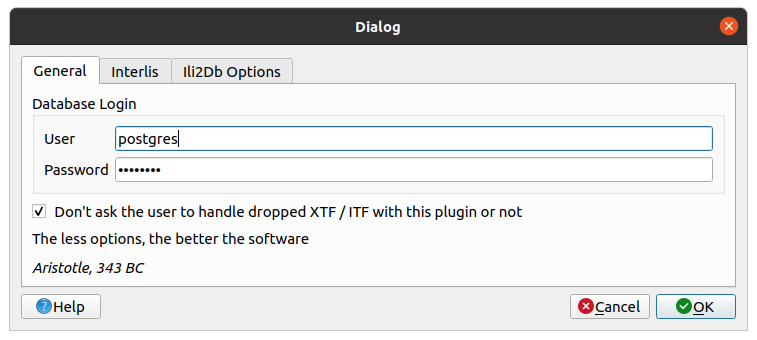
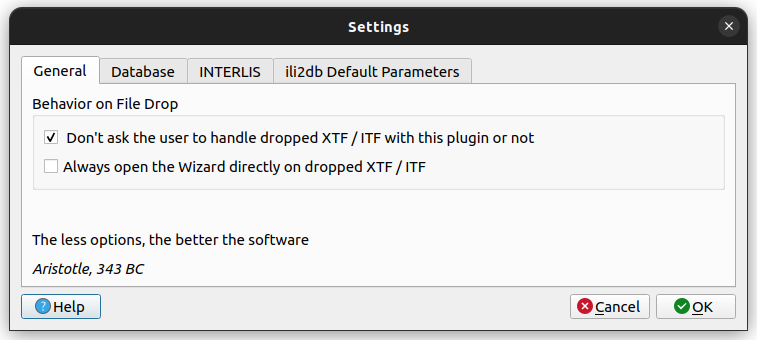
docu and addional text in dialogs

diff --git a/docs/docs/user_guide/plugin_configuration.md b/docs/docs/user_guide/plugin_configuration.md
@@ -5,11 +5,23 @@ Go to menu *Database > Model Baker > Settings*.
 
 In keeping with aristotle, unnecessary settings are avoided. Still there are some.
 
-In the *Database Login* you can set username and password to use it as superuser login to excecute data management tasks. The *checkbox* is to avoid / enforce opening a popup when dropping XTF/ITF or ILI files in QGIS main window to ask if you want to handle them in the Model Baker or not.
+The *checkbox* is to avoid / enforce opening a popup when dropping XTF/ITF or ILI files in QGIS main window to ask if you want to handle them in the Model Baker or not.
+
+The second is to skip the dialog asking you to import the file directly with Quick Viewer.
+
+## Database Settings
+
+![db settings](../assets_db.png)
+
+In the *Database Login* you can set username and password to use it as superuser login to excecute data management tasks.
+
+The button *Generally used custom DB parameters* provides you a map to enter specific parameters passed to ili2db via a temporary file to `--dbparams`.
+These settings are used on every ili2pg command (including validation). They are not considered in the QGIS project. The possible parameters are described in the respective [JDBC driver](https://jdbc.postgresql.org/documentation/use/#connection-parameters).
 
 ## INTERLIS Settings
 
 ![interlis settings](../assets/settings_interlis.png)
+
 ### Custom Model Directories
 
 In this window you can set one or several paths to let ili2db where to find your INTERLIS models (ili files). Paths can be both local directories or URLs to remote model repositories. Several paths should be separated by semicolons.
@@ -28,4 +40,4 @@ By default, Model Baker searches for Java executable in `%JAVA_HOME` environment
 
 ![ili2db settings](../assets/settings_ili2db.png)
 
-This section is to show all the parameters set by the Model Baker on calling ili2db.
+This section is to show all the parameters set by the Model Baker Library per default on ili2db commands. In the plugin they are modified.
